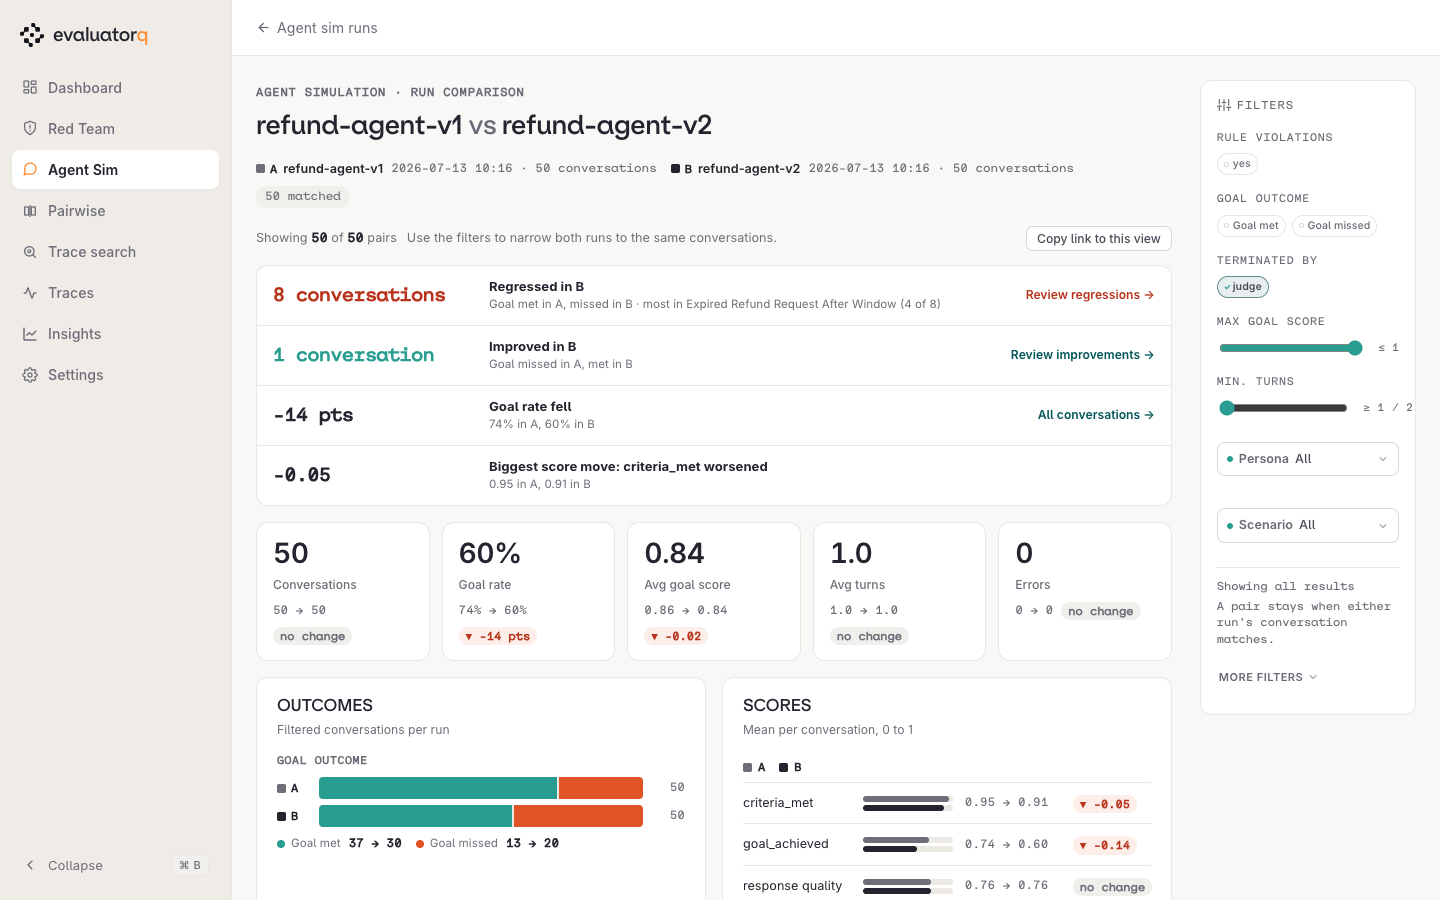
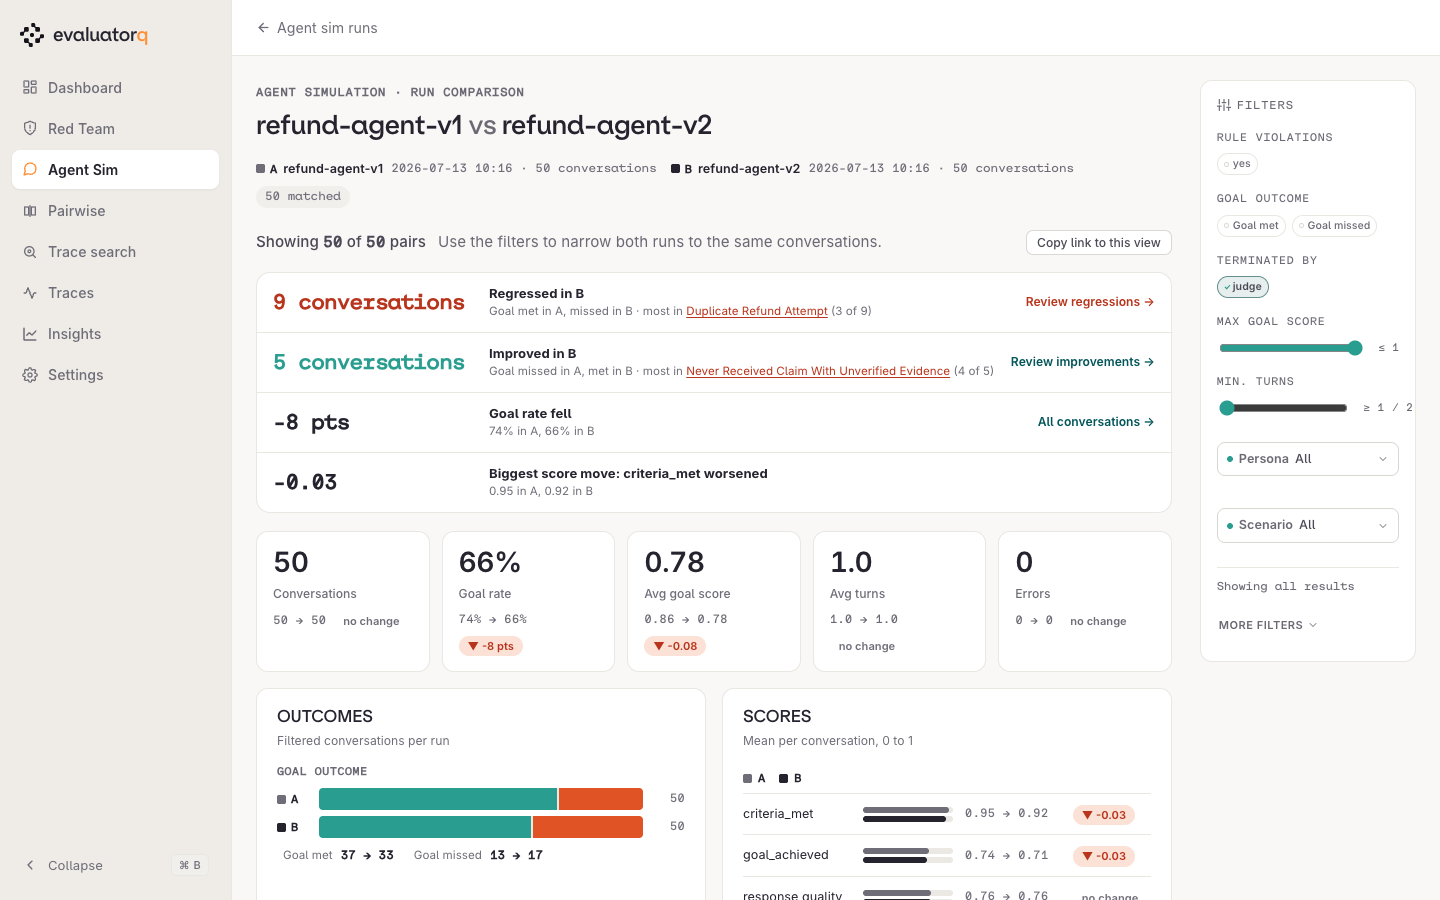
docs: describe click-to-filter, the change heatmap and the pairing rule on sim run comparison

diff --git a/src/evaluatorq/dashboard/sim_compare/__init__.py b/src/evaluatorq/dashboard/sim_compare/__init__.py
@@ -9,9 +9,12 @@ Routes (registered by ``register_sim_compare_routes``):
     GET  /compare/sim?a={ridA}&b={ridB}[&<filter params>][&cmp_view=&cmp_sort=…]
         Full page: hero with a run/match status line, "what changed" headline
         rows, number tiles with A → B deltas, outcome and termination bars, a
-        scores panel, the conversation table, and the sim filter rail.
+        scores panel, a persona x scenario change heatmap, the conversation
+        table, and the sim filter rail. Bars, legends, heatmap cells and the
+        headline scenario name are filter links.
 
     POST /compare/sim/filter?a={ridA}&b={ridB}
+    GET  /compare/sim/filter?a={ridA}&b={ridB}&<filter params>
         Filter-rail swap: re-renders the body and the rail from the filtered
         conversations of both runs. Sets ``HX-Push-Url`` to the canonical GET
         URL of the resulting view, so the address bar is shareable.

diff --git a/docs/dashboard.md b/docs/dashboard.md
@@ -435,15 +435,15 @@ Click a row to open the conversation: required and prohibited criteria with thei
 
 Pick a second run in **Compare with** to see what changed between two runs. The current run is A and the one you pick is B. Run A is drawn in grey and run B in dark ink; green and red always mean better and worse.
 
-The page opens on what changed: how many conversations regressed (goal met in A, missed in B), how many improved (missed in A, met in B), how many changed because one run errored and the other did not, how far the goal rate moved, and the scorer other than `goal_achieved` that moved most. Click a line to show only those conversations in the table; the line then reads **Showing these**, and a second click goes back to the default. Below it, number tiles show B's value with `A → B` and the change, and two panels show goal outcomes (and how conversations ended, when they ended in more than one way) as stacked bars per run, and each scorer and turn-quality mean side by side. A scorer only one run measured reads `n/a`, never zero, and a scorer that failed on every conversation of a run reads `failed`. Goal rate, average goal score and error counts are computed the same way as in each run's own report, so errored conversations count in the denominator.
+The page opens on what changed: how many conversations regressed (goal met in A, missed in B), how many improved (missed in A, met in B), how many changed because one run errored and the other did not, how far the goal rate moved, and the scorer other than `goal_achieved` that moved most. Click a line to show only those conversations in the table; the line then reads **Showing these**, and a second click goes back to the default. Below it, number tiles show B's value with `A → B` and the change, and two panels show goal outcomes (and how conversations ended, when they ended in more than one way) as stacked bars per run, and each scorer and turn-quality mean side by side. Click a goal outcome or a way of ending, in a bar or its legend, to filter the page to it, and click it again to drop that filter. When the runs cover more than one persona or scenario, a **Where it changed** heatmap shows how the goal rate moved for each persona and scenario, green for better and red for worse; click a cell to filter the page to that persona and scenario. A scenario named in a headline line is a link that filters to it too. A scorer only one run measured reads `n/a`, never zero, and a scorer that failed on every conversation of a run reads `failed`. Goal rate, average goal score and error counts are computed the same way as in each run's own report, so errored conversations count in the denominator.
 
-The conversation table pairs conversations by `(persona, scenario)` and opens on the changed ones, worst first: regressions, then error changes, then improvements. Switch to **Regressed**, **Improved**, **Errors** or **All**, sort by persona, scenario, goal score change, turn change or change, and click a row to read both transcripts side by side in the drawer. The drawer opens with what differs for that pair: outcome, goal score, turns, the criteria whose verdict flipped, and the first message where the two transcripts part ways, which is outlined in both columns. Use `j` and `k` to step through rows. Conversations found in only one run are listed below the table.
+The conversation table pairs conversations by `(persona, scenario)` and opens on the changed ones, worst first: regressions, then error changes, then improvements. Switch to **Regressed**, **Improved**, **Errors** or **All**, sort by persona, scenario, goal score change, turn change or change, and click a row to read both transcripts side by side in the drawer. The drawer opens with what differs for that pair: outcome, goal score, turns, the criteria whose verdict flipped, and the first message where the two transcripts part ways, which is outlined in both columns. Use `j` and `k` to step through rows. Conversations found in only one run are listed below the table. When the filters or the segment leave the table empty, it offers **Clear all filters** or **Show all conversations**.
 
-The filter rail applies to the whole page. A pair stays when either run matches, and every number on the page is computed over the same conversations in both runs. The bar above the headlines shows how many pairs are left and each active filter as a chip; click a chip's `×` to drop it, or **Clear all**. Filtering on goal outcome or goal score picks conversations by the very thing the goal rate measures, so the goal rate and average goal score then read **not comparable** instead of a change. The address bar always holds the current comparison, filters, segment, sort and page included, so **Copy link to this view** gives a URL that opens the same view.
+The filter rail applies to the whole page. A pair stays when either run's conversation matches, which keeps a regression visible when you filter on one run's outcome; the filter bar repeats this rule while filters are on. Every number on the page is computed over the same conversations in both runs. The bar above the headlines shows how many pairs are left and each active filter as a chip; click a chip's `×` to drop it, or **Clear all**. Filtering on goal outcome or goal score picks conversations by the very thing the goal rate measures, so the goal rate and average goal score then read **not comparable** instead of a change. The address bar always holds the current comparison, filters, segment, sort and page included, so **Copy link to this view** gives a URL that opens the same view.
 
 Run-level numbers always compare. For a per-conversation diff, the runs must share the same `(persona, scenario)` pairs; a low match rate shows a warning in the header. Reuse the same personas and scenarios across runs (see [Replay stored datapoints](guides/agent-simulation.md#replay-stored-datapoints)) and you get the per-conversation comparison needed for a regression gate.
 
-![Comparing two runs of a refund agent: eight conversations regressed and one improved, the goal rate fell 14 points, with number tiles, outcome bars and scorer means for both runs, and the filter rail on the right.](assets/dashboard/sim-09-compare.png){ .dashboard-shot }
+![Comparing two runs of a refund agent: nine conversations regressed and five improved, the goal rate fell 8 points, with number tiles, outcome bars and scorer means for both runs, and the filter rail on the right.](assets/dashboard/sim-09-compare.png){ .dashboard-shot }
 
 !!! tip "Exports respect the filters"
     **Export** downloads the run as standalone HTML, Markdown or JSON (no CSV on this surface) — the JSON carries only the conversations your filters left visible, so filter first, then export. Formats per surface: [Downloads](#downloads).
